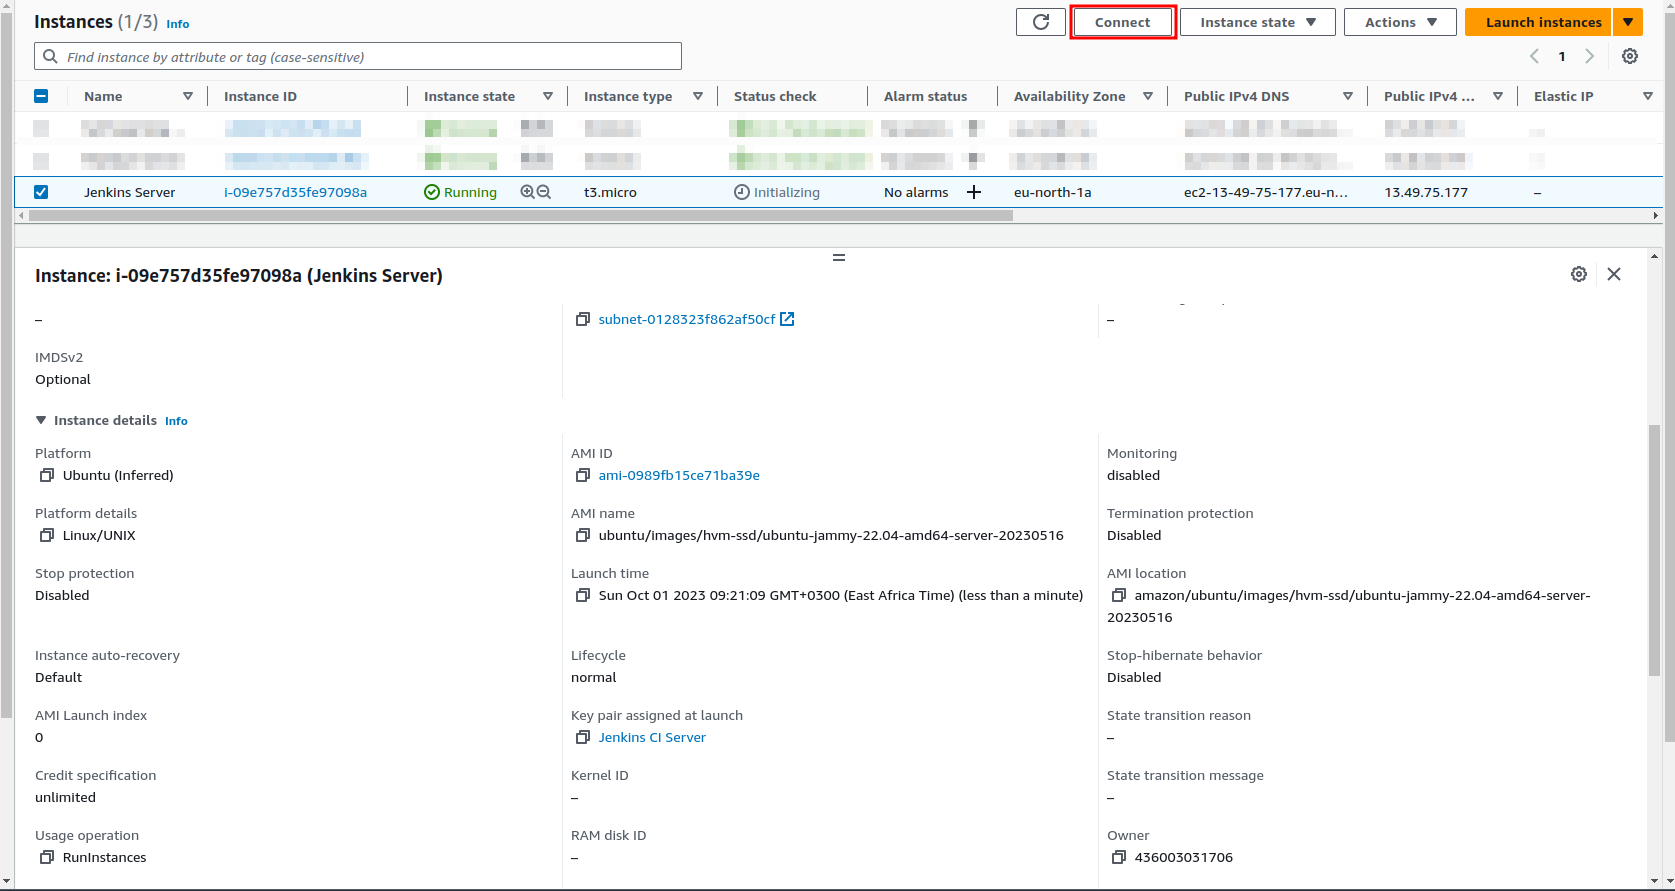
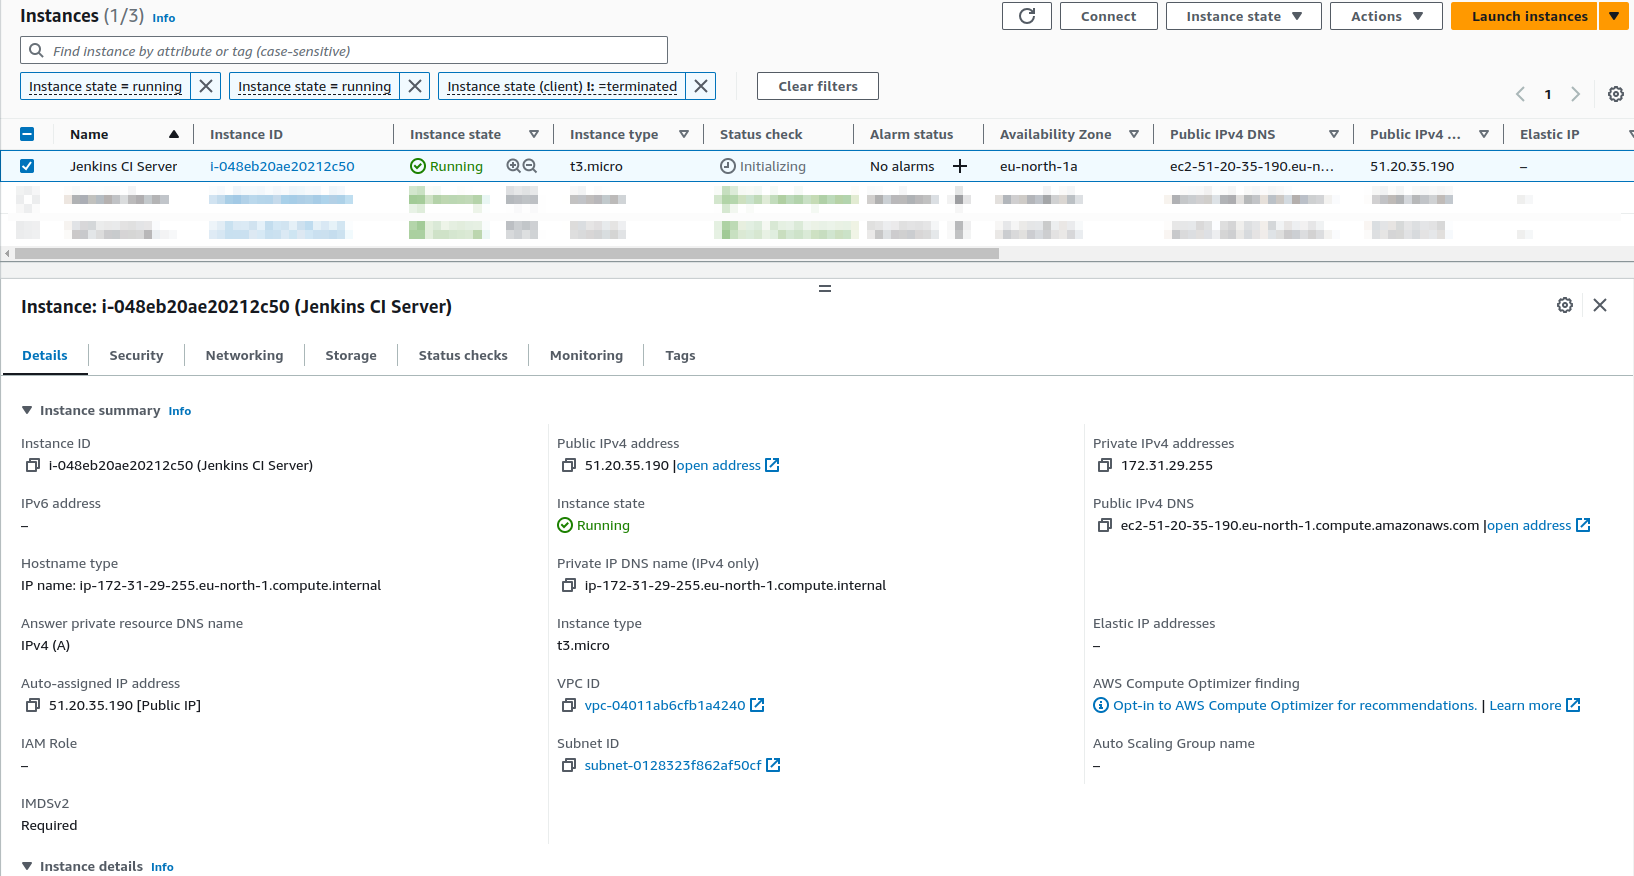
Update the documentation

diff --git a/CI_CD_Server.md b/CI_CD_Server.md
@@ -1,99 +1,106 @@
 # AWS Configuration for Jenkins
 
 ## We will be setting up a Jenkins, in the end we shoud have:
+
 1. An AWS EC2 instance running Ubuntu 22.04 LTS
 2. Jenkins setup running on Docker
 
 ### To setup the environment, you need to have an AWS EC2 instance configured as follows:
+
 1. Log in to your AWS account
-1. After you are logged in, select the __Services__ button:
-1. Select __Compute__
-1. Select __EC2__ for a Virtual Private Server in the cloud<br/>
-![Alt text](documentation/select_ec2.png)
-1. Launch a new instance by selecting __Launch Instances__:
-![Alt text](documentation/launch_ec2.png)
-1. Fill in the __Name__ of your server, and select the __Ubuntu OS__ image
-![Alt text](documentation/name_and_image.png)
-1. Leave the __Instance Type__ section as is
-1. In the __Key Pair__ section, select __Create key pair__ fill in the details, and you will be prompted to download the key .pem file, and keep it in a Folder where it's easily accessible from your terminal.
-![Alt text](documentation/key_pair.png)
-1. In the __Network Settings__ section, select *Allow HTTPS traffic from the internet* and *Allow HTTP traffic from the internet*
-![Alt text](documentation/network.png)
-1. Configure the storage requirements as you like, but we will be using the default __8 GiB gp2__ configuration
-1. Select __Launch Instance__ in the __Summary__ section:
-![Alt text](documentation/complete_launch.png)
-1. You can now see your __EC2__ instance, in the __Instances__ list:
-![Alt text](documentation/ec2_instances.png)
-1. Select __Connect__, and choose __SSH Client__ to get the details of the remote SSH connection.
-![Alt text](documentation/ssh_aws_details.png)
-1. This is where the downloaded Identity file from the __Key Pair__ created is needed. Open up a terminal of your choice, and type
-```bash
-ssh -i "/path/to/Jenkins CI Server.pem" ubuntu@ec2-13-49-75-177.eu-north-1.compute.amazonaws.com
-``` 
-you will be connected to your EC2 instance.
+1. After you are logged in, select the **Services** button:
+1. Select **Compute**
+1. Select **EC2** for a Virtual Private Server in the cloud<br/>
+   ![Alt text](documentation/select_ec2.png)
+   ![Alt text](image.png)
+1. Launch a new instance by selecting **Launch Instances**:
+   ![Alt text](documentation/launch_ec2.png)
+1. Fill in the **Name** of your server, and select the **Amazon Linux** image
+   ![Alt text](documentation/name_and_image.png)
+1. Leave the **Instance Type** section as is
+1. In the **Key Pair** section, select **Create key pair** fill in the details, and you will be prompted to download the key .pem file, and keep it in a Folder where it's easily accessible from your terminal.
+   ![Alt text](documentation/key_pair.png)
+1. In the **Network Settings** section, select _Allow HTTPS traffic from the internet_ and _Allow HTTP traffic from the internet_
+   ![Alt text](documentation/network.png)
+1. Configure the storage requirements as you like, but we will be using **20 GiB gp3** configuration
+1. Select **Launch Instance** in the **Summary** section:
+   ![Alt text](documentation/complete_launch.png)
+1. You can now see your **EC2** instance, in the **Instances** list:
+   ![Alt text](documentation/ec2_instances.png)
+1. Port **8080** was added to the security group
+![Alt text](documentation/port_8080.png)
+1. Select **Connect**, and choose **SSH Client** to get the details of the remote SSH connection.
+   ![Alt text](documentation/ssh_aws_details.png)
+1. This is where the downloaded Identity file from the **Key Pair** created is needed. I opened up the terminal and:
 
-### Docker Installation
-After establishing an SSH connection to your EC2 instance, here is where Docker will be installed. 
-For installation of docker in Ubuntu [Go here](https://docs.docker.com/engine/install/ubuntu/). In my case this were the steps followed:
-1. Set up Docker's apt ppa repository:
-  ```bash
-  # Add Docker's official GPG key:
-  sudo apt-get update
-  sudo apt-get install ca-certificates curl gnupg
-  sudo install -m 0755 -d /etc/apt/keyrings
-  curl -fsSL https://download.docker.com/linux/ubuntu/gpg | sudo gpg --dearmor -o /etc/apt/keyrings/docker.gpg
-  sudo chmod a+r /etc/apt/keyrings/docker.gpg
+```bash
+ssh -i "Jenkins CI Server.pem" ec2-user@ec2-51-20-35-190.eu-north-1.compute.amazonaws.com
+```
 
-  # Add the repository to Apt sources:
-  echo \
-    "deb [arch="$(dpkg --print-architecture)" signed-by=/etc/apt/keyrings/docker.gpg] https://download.docker.com/linux/ubuntu \
-    "$(. /etc/os-release && echo "$VERSION_CODENAME")" stable" | \
-    sudo tee /etc/apt/sources.list.d/docker.list > /dev/null
-  sudo apt-get update
- ```
-2. Install the Docker package:
-```bash
-sudo apt-get install docker-ce docker-ce-cli containerd.io docker-buildx-plugin docker-compose-plugin
-```
-3. Add the `ubuntu` user to the `docker` group
-```bash
-sudo usermod -aG docker
-```
-4. Logout and then login to your server again, the permissions of your user shall now be up-to-date. You can test by running:
-```bash
-docker ps
-```
-if no permissions error shows up, you have setup docker succesfully.
+and connection to the EC2 instance was established.
 
 ### Jenkins Installation
 
-After setting up Docker, I installed Jenkins using the Docker runtime as follows:
-1. Create the Jenkins docker network:
+I installed Jenkins as per the official documentation at [https://www.jenkins.io/doc/tutorials/tutorial-for-installing-jenkins-on-AWS/]() as follows:
+
+1. Install OpenJDK Java Runtime Environment (JRE) 17:
+
 ```bash
-docker network create jenkins
+sudo yum update –y
+sudo wget -O /etc/yum.repos.d/jenkins.repo \
+    https://pkg.jenkins.io/redhat-stable/jenkins.repo
+sudo rpm --import https://pkg.jenkins.io/redhat-stable/jenkins.io-2023.key
+sudo yum upgrade
+sudo dnf install java-17-amazon-corretto -y
 ```
-2. Create the Jenkins home folder: `sudo mkdir -p /opt/jenkins/home`
-2. Make the `ubuntu` user the owner of the jenkins folder: `sudo chown -R ubuntu /opt/jenkins/`
-2. Create a file name `/opt/jenkins/docker-compose.yml` with the contents of `docker-compose-ci-server.yaml`
-2. Run `docker compose up -d`
-2. You can check the status of your application by running:
+
+2. Install Jenkins LTS:
+
 ```bash
-docker ps
+sudo yum install jenkins -y
 ```
-7. That's it setting up your CI/CD server, you can now access it using the public IP `http://13.49.75.177/`. __NOTE__: SSL has not been enabled.
-![Alt text](documentation/jenkins_initial_password.png)
-8. You can find the administrator password at `/var/jenkins_home/secrets/initialAdminPassword
-` since we are using docker the actual path in the host VM is `/opt/jenkins/home/secrets/initialAdminPassword`.
-8. Run: 
-`cat /opt/jenkins/home/secrets/initialAdminPassword` 
-and copy the contents, and paste in to the password field.
-8. Select __Install Suggested Plugins__:
-![Alt text](documentation/jenkins_setup.png)
-8. As the setup progresses, you will be presented with this page:
-![Alt text](documentation/jenkins_setup_progress.png)
-9. After the plugins installation completes, fill the Admin user information
-![Alt text](documentation/jenkins_setup_admin.png)
-10. Choose the instance URL, we will use the public IP of the AWS instance, which will be filled in by default:
-![Alt text](documentation/jenkins_setup_url.png)
-10. Select start using Jenkins, and you will be signed in, and presented with the home page 
-![Alt text](documentation/jenkins_home.png)
+
+3. Enable the Jenkins service:
+
+```bash
+sudo systemctl enable jenkins
+```
+
+4. Start the Jenkins service:
+
+```bash
+sudo systemctl start jenkins
+```
+
+5. That's it setting up your CI/CD server, you can now access it using the public IP `http://51.20.35.190:8080/`. **NOTE**: SSL has not been enabled.
+   ![Alt text](documentation/jenkins_initial_password.png)
+6. You can find the administrator password at `/var/jenkins_home/secrets/initialAdminPassword`
+7. Run:
+   `cat /opt/jenkins/home/secrets/initialAdminPassword`
+   and copy the contents, and paste in to the password field.
+8. Select **Install Suggested Plugins**:
+    ![Alt text](documentation/jenkins_setup.png)
+9. As the setup progresses, you will be presented with this page:
+    ![Alt text](documentation/jenkins_setup_progress.png)
+10. After the plugins installation completes, fill the Admin user information
+    ![Alt text](documentation/jenkins_setup_admin.png)
+11. Choose the instance URL, we will use the public IP of the AWS instance, which will be filled in by default:
+    ![Alt text](documentation/jenkins_setup_url.png)
+12. Select start using Jenkins, and you will be signed in, and presented with the home page
+    ![Alt text](documentation/jenkins_home.png)
+
+### Docker Installation
+
+After establishing an SSH connection to your EC2 instance, here is where Docker will be installed. We install docker so that it can be used with jobs that need it. In my case this were the steps followed:
+
+2. Install the Docker package:
+
+```bash
+sudo yum install docker -y
+```
+
+3. Added the `jenkins` user to the `docker` group
+
+```bash
+sudo usermod -aG docker jenkins
+```
